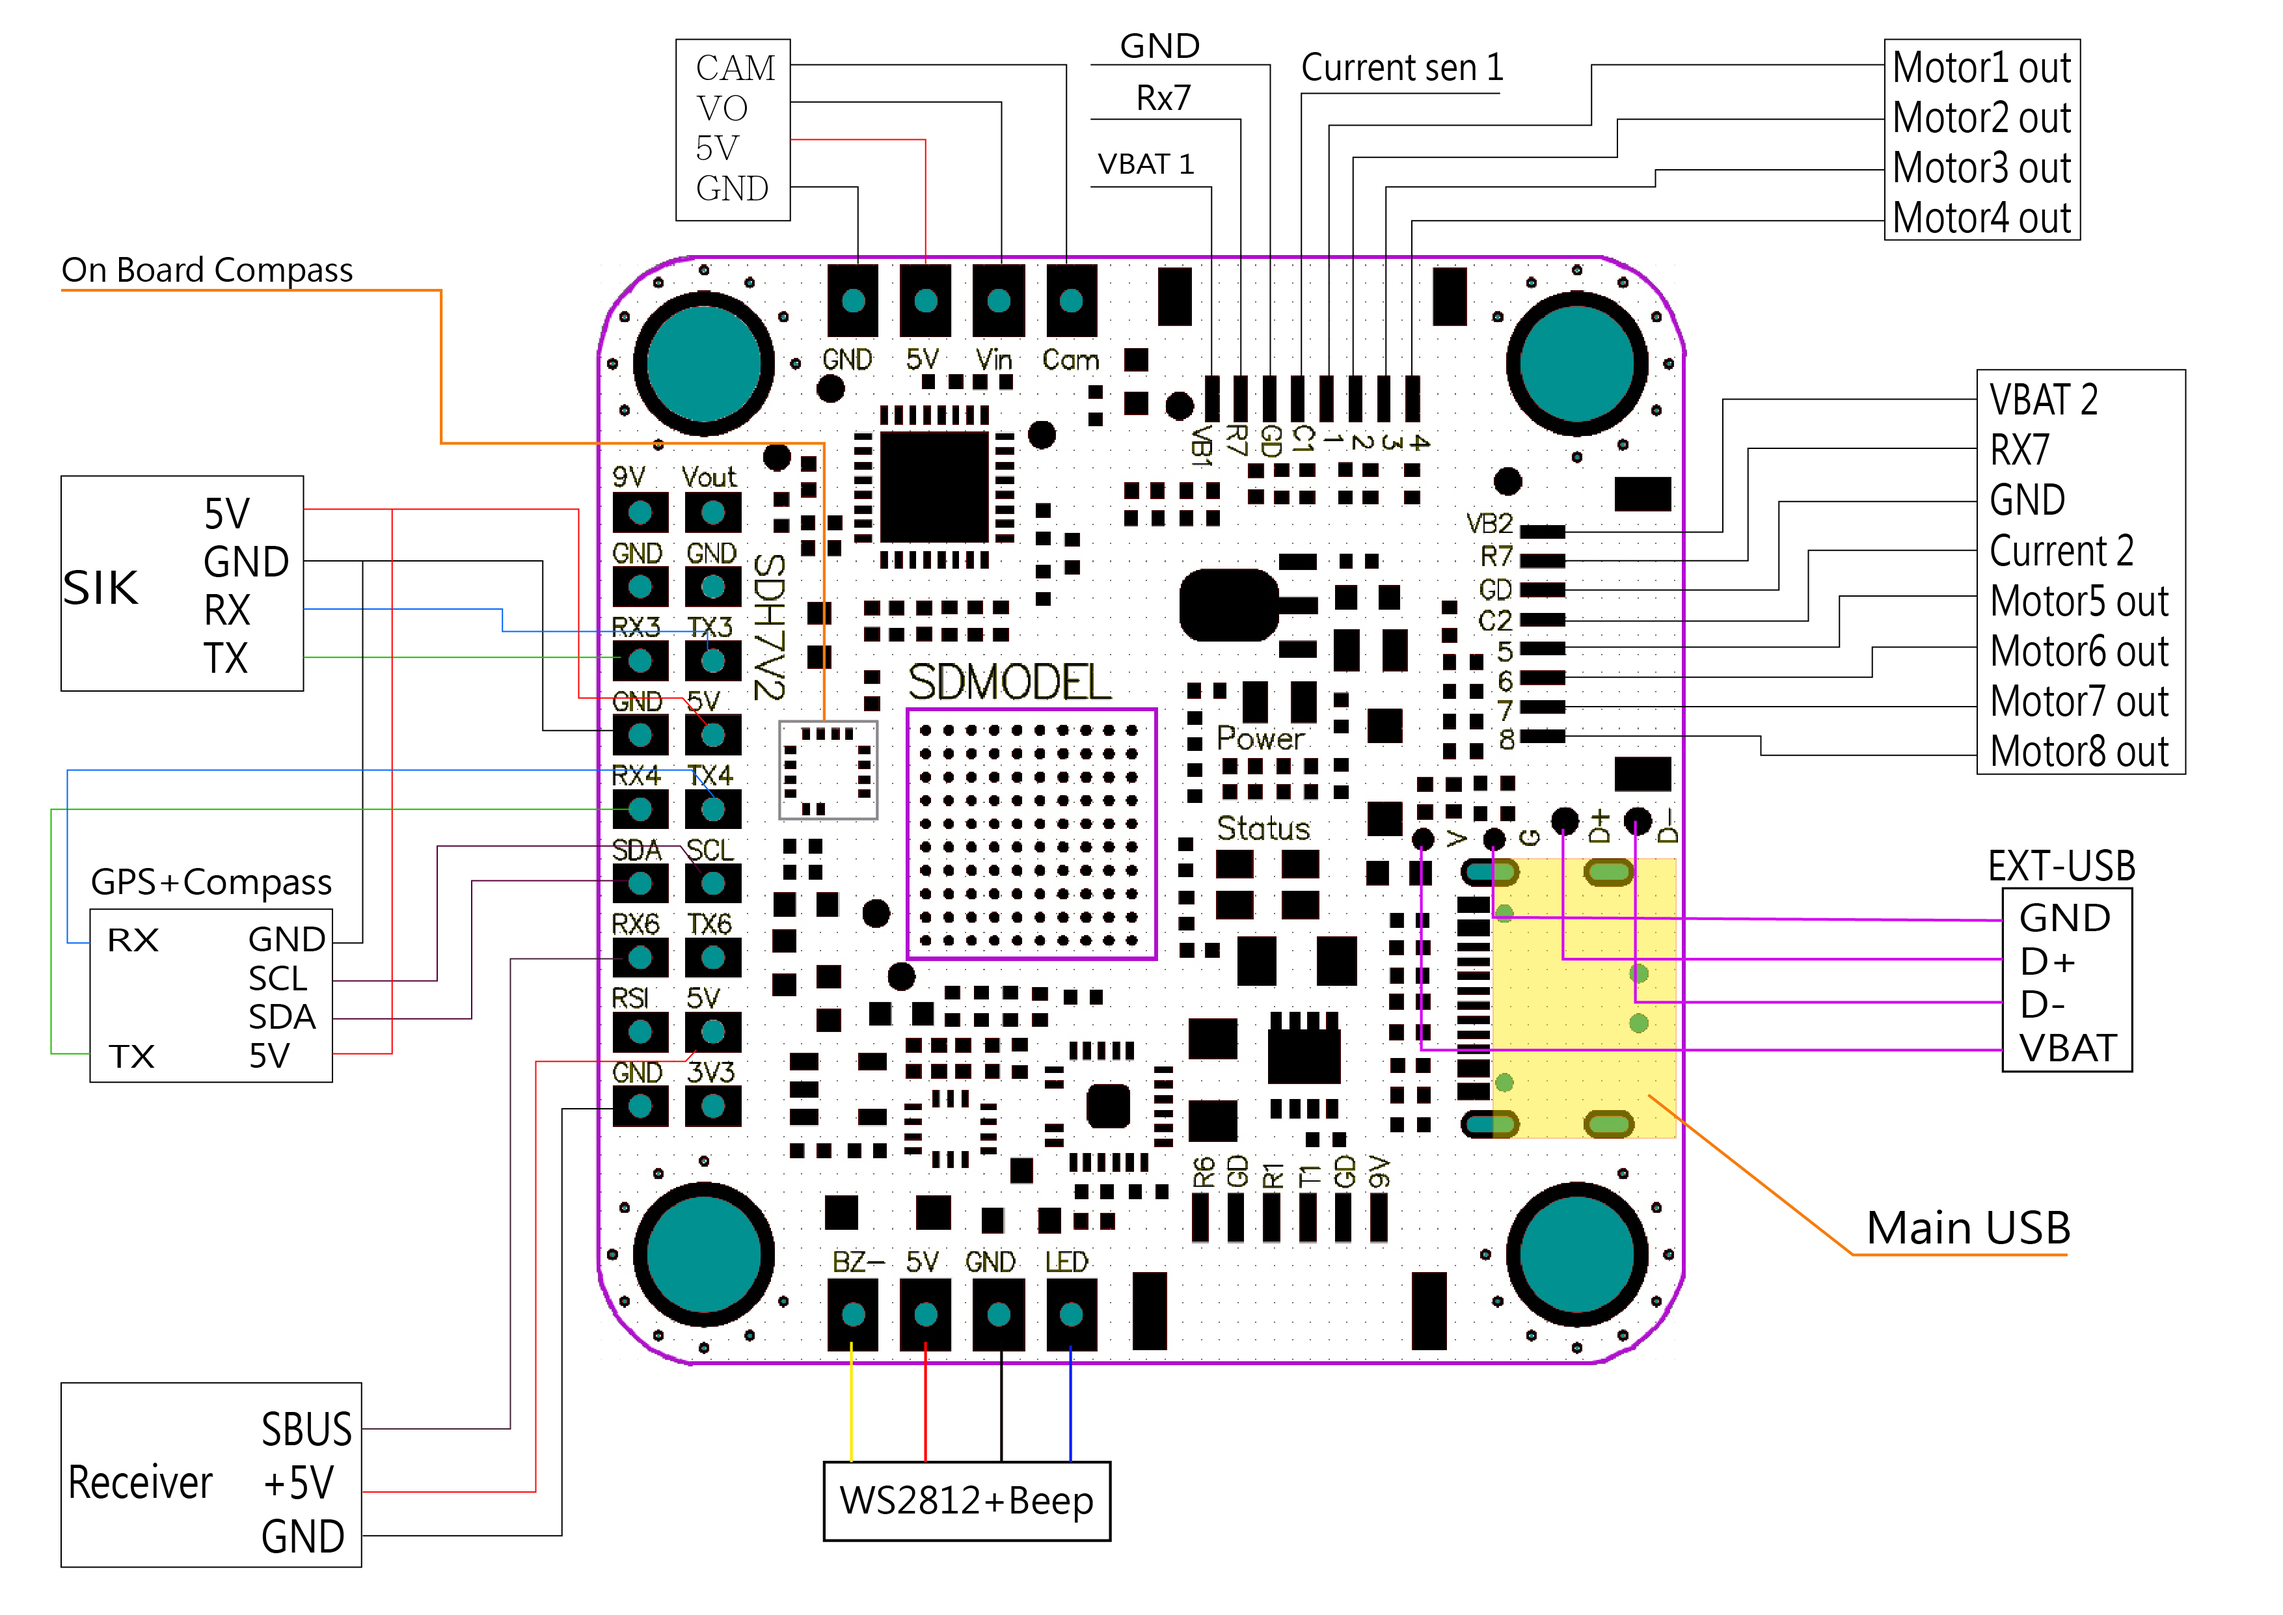
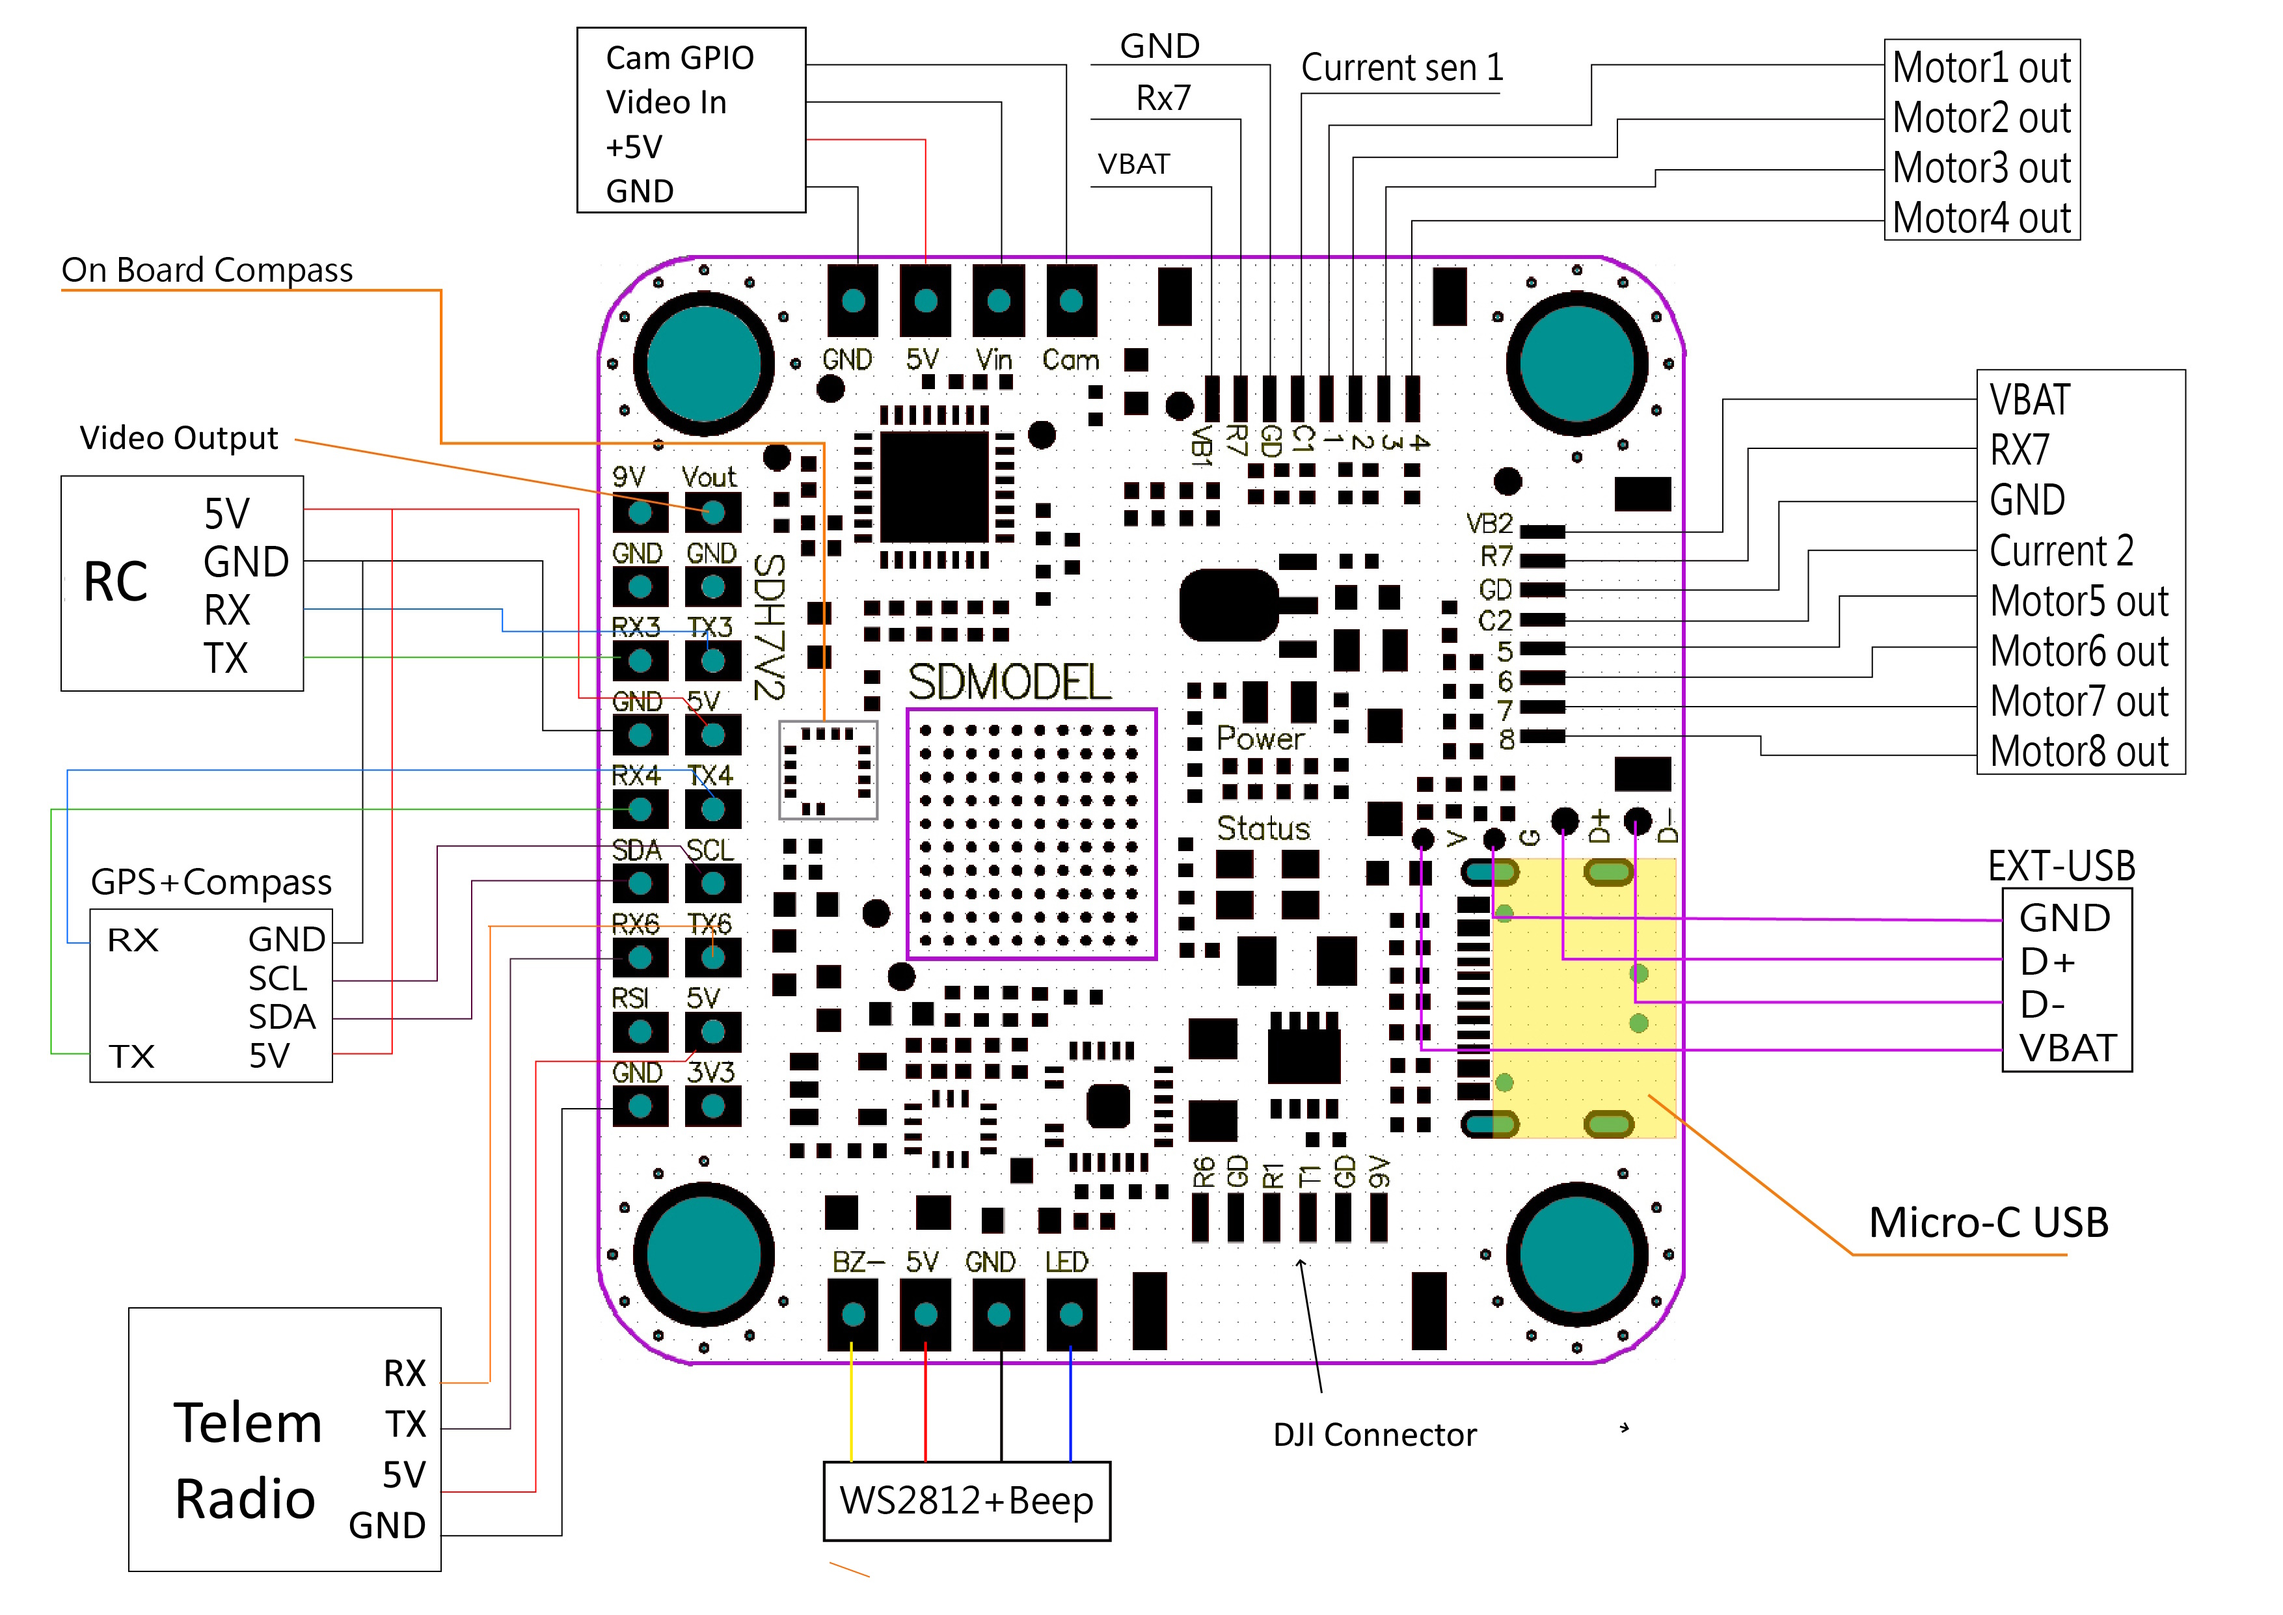
AP_HAL_ChibiOS:Improve SDMODELH7V2 definition

diff --git a/libraries/AP_HAL_ChibiOS/hwdef/SDMODELH7V2/README.md b/libraries/AP_HAL_ChibiOS/hwdef/SDMODELH7V2/README.md
@@ -25,11 +25,11 @@ receive pin for UARTn. The Tn pin is the transmit pin for UARTn.
  - SERIAL0 -> USB
  - SERIAL1 -> UART1 (Telem1) (MSP DisplayPort)(DMA Capable)
  - SERIAL2 -> UART2 (Telem2) (connected to internal BT module, not useable by ArduPilot)
- - SERIAL3 -> UART3 (GPS)(DMA Capable)
+ - SERIAL3 -> UART3 (RCin)(DMA Capable)
  - SERIAL4 -> UART4 (GPS)
  - SERIAL5 -> not available
- - SERIAL6 -> UART6 (RX6 in RCinput, ALT config to use as UART input)
- - SERIAL7 -> UART7 RX pin only, ESC telem)(DMA Capable)
+ - SERIAL6 -> UART6 (TELEM)
+ - SERIAL7 -> UART7 (RX pin only, ESC telem)(DMA Capable)
 
 ## RC Input
 
